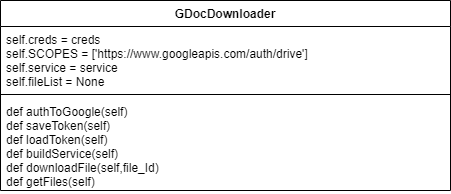
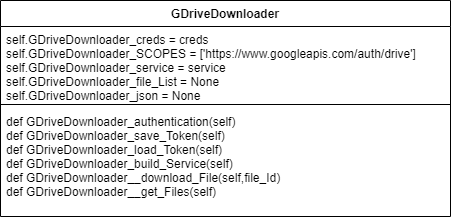
updated design, class, and UML image

Changed region(s): [[0.0, 0.0, 1.0, 0.4948], [0.0, 0.5258, 1.0, 0.9897]]

diff --git a/resiliency_platform/input_url/gDriveDownloader.py b/resiliency_platform/input_url/gDriveDownloader.py
@@ -7,37 +7,44 @@ from googleapiclient.http import MediaIoBaseDownload
 from google_auth_oauthlib.flow import InstalledAppFlow
 from google.auth.transport.requests import Request
 
+#googleapiclient.discovery.build
+#googleapiclient.discovery.build.files().list()
+#googleapiclient.http.MediaIoBaseDownload
+#google_auth_oauthlib.flow.InstalledAppFlow
+#google.auth.transport.requests.Request
+
 
 class GDriveDownloader():
     def __init__(self,creds=None,service=None):
-        self.creds = creds
-        self.SCOPES = ['https://www.googleapis.com/auth/drive']
-        self.service = service
-        self.fileList = None
+        self.GDriveDownloader_creds = creds
+        self.GDriveDownloader_SCOPES = ['https://www.googleapis.com/auth/drive']
+        self.GDriveDownloader_service = service
+        self.GDriveDownloader_file_List = None
+        self.GDriveDownloader_json = None
 
-    def authToGoogle(self):
+    def GDriveDownloader_authentication(self):
         # If there are no (valid) credentials available, let the user log in.
-        if not self.creds or not self.creds.valid:
-            if self.creds and self.creds.expired and self.creds.refresh_token:
+        if not self.GDriveDownloader_creds or not self.GDriveDownloader_creds.valid:
+            if self.GDriveDownloader_creds and self.GDriveDownloader_creds.expired and self.GDriveDownloader_creds.refresh_token:
                 creds.refresh(Request())
             else:
-                flow = InstalledAppFlow.from_client_secrets_file('client_secret_204730000731-ua1e5ag1foa5c089g1hka58vc849bvfs.apps.googleusercontent.com.json', self.SCOPES)
-                self.creds = flow.run_local_server(port=0)
+                flow = InstalledAppFlow.from_client_secrets_file('client_secret_204730000731-c0gs1os80ucalj6mto9c1etmaee70is7.apps.googleusercontent.com.json', self.GDriveDownloader_SCOPES)
+                self.GDriveDownloader_creds = flow.run_local_server(port=0)
 
-    def saveToken(self):
+    def GDriveDownloader_save_Token(self):
         with open('token.pickle', 'wb') as token:
-            pickle.dump(self.creds, token)
+            pickle.dump(self.GDriveDownloader_creds, token)
 
-    def loadToken(self):
+    def GDriveDownloader_load_Token(self):
         if os.path.exists('token.pickle'):
             with open('token.pickle', 'rb') as token:
                 creds = pickle.load(token)
 
-    def buildService(self):
-        self.service = build('drive', 'v3', credentials=self.creds)
+    def GDriveDownloader_build_Service(self):
+        self.GDriveDownloader_service = build('drive', 'v3', credentials=self.GDriveDownloader_creds)
 
-    def downloadFile(self,file_Id):
-        request = self.service.files().get_media(fileId=file_id)
+    def GDriveDownloader__download_File(self,file_Id):
+        request = self.GDriveDownloader_service.files().get_media(fileId=file_id)
         fh = io.BytesIO()
         downloader = MediaIoBaseDownload(fh, request)
         done = False
@@ -45,15 +52,15 @@ class GDriveDownloader():
             status, done = downloader.next_chunk()
             print("Download {}%".format(int(status.progress() * 100)))
 
-    def getFiles(self):
+    def GDriveDownloader__get_Files(self):
         page_token = None
         while True:
-            self.fileList = self.service.files().list(spaces='drive', fields='nextPageToken, items(id, title)', pageToken=page_token).execute()
-            for file in self.fileList.get('items', []):
+            self.GDriveDownloader_file_List = self.GDriveDownloader_service.files().list(spaces='drive', fields='nextPageToken, items(id, title)', pageToken=page_token).execute()
+            for file in self.GDriveDownloader_file_List.get('items', []):
                 # Process change
                 #print 'Found file: %s (%s)' % (file.get('title'), file.get('id'))
                 print(file.get('title'))
-            page_token = self.fileList.get('nextPageToken', None)
+            page_token = self.GDriveDownloader_file_List.get('nextPageToken', None)
             if page_token is None:
                 break
 

diff --git a/Docs/Design/google.tex b/Docs/Design/google.tex
@@ -8,33 +8,36 @@ The association \textbf{UI} is used to allow the user to authenticate to their G
 
 
 \subsubsection{Attributes}
-\textbf{creds} \\
-The attribute creds holds the authentication token.
+\textbf{GDriveDownloader_creds} \\
+The attribute GDriveDownloader_creds holds the authentication token.
 
-\textbf{SCOPES} \\
-The attribute SCOPES holds the scope of what the application can access from Google.
+\textbf{GDriveDownloader_SCOPES} \\
+The attribute GDriveDownloader_SCOPES holds the scope of what the application can access from Google.
 
-\textbf{service} \\
-The attribute service holds the built service.
+\textbf{GDriveDownloader_service} \\
+The attribute GDriveDownloader_service holds the built service.
 
-\textbf{fileList} \\
-The attribute fileList hold the list of files from Google Drive.
+\textbf{GDriveDownloader_file_List} \\
+The attribute GDriveDownloader_file_List hold the list of files from Google Drive.
+
+\textbf{GDriveDownloader_json} \\
+The attribute GDriveDownloader_json holds the json need by the UI. 
 
 \subsubsection{Methods}
-\textbf{authToGoogle} \\
-This method handles the authentication to google and gets the authentication token.
+\textbf{GDriveDownloader_authentication} \\
+This method handles the authentication to google and gets the authentication token. It saves the token in GDriveDownloader_creds.
 
-\textbf{saveToken} \\
+\textbf{GDriveDownloader_save_Token} \\
 This method saves the token to a file.
 
-\textbf{loadToken} \\
+\textbf{GDriveDownloader_load_Token} \\
 This method loads the token from a file.
 
-\textbf{buildService} \\
+\textbf{GDriveDownloader_build_Service} \\
 This method builds the service from the scope and the authentication token.
 
-\textbf{downloadFile} \\
-This method downloads a file with a selected file id. 
+\textbf{GDriveDownloader__download_File} \\
+This method downloads a file with the selected file ids. 
 
-\textbf{getFiles} \\
-This method qurries Google Drive for the files stored in the user's Google account. 
+\textbf{GDriveDownloader__get_Files} \\
+This method qurries Google Drive for the files stored in the user's Google account. It will also create the json for the UI and store it in GDriveDownloader_json.   
